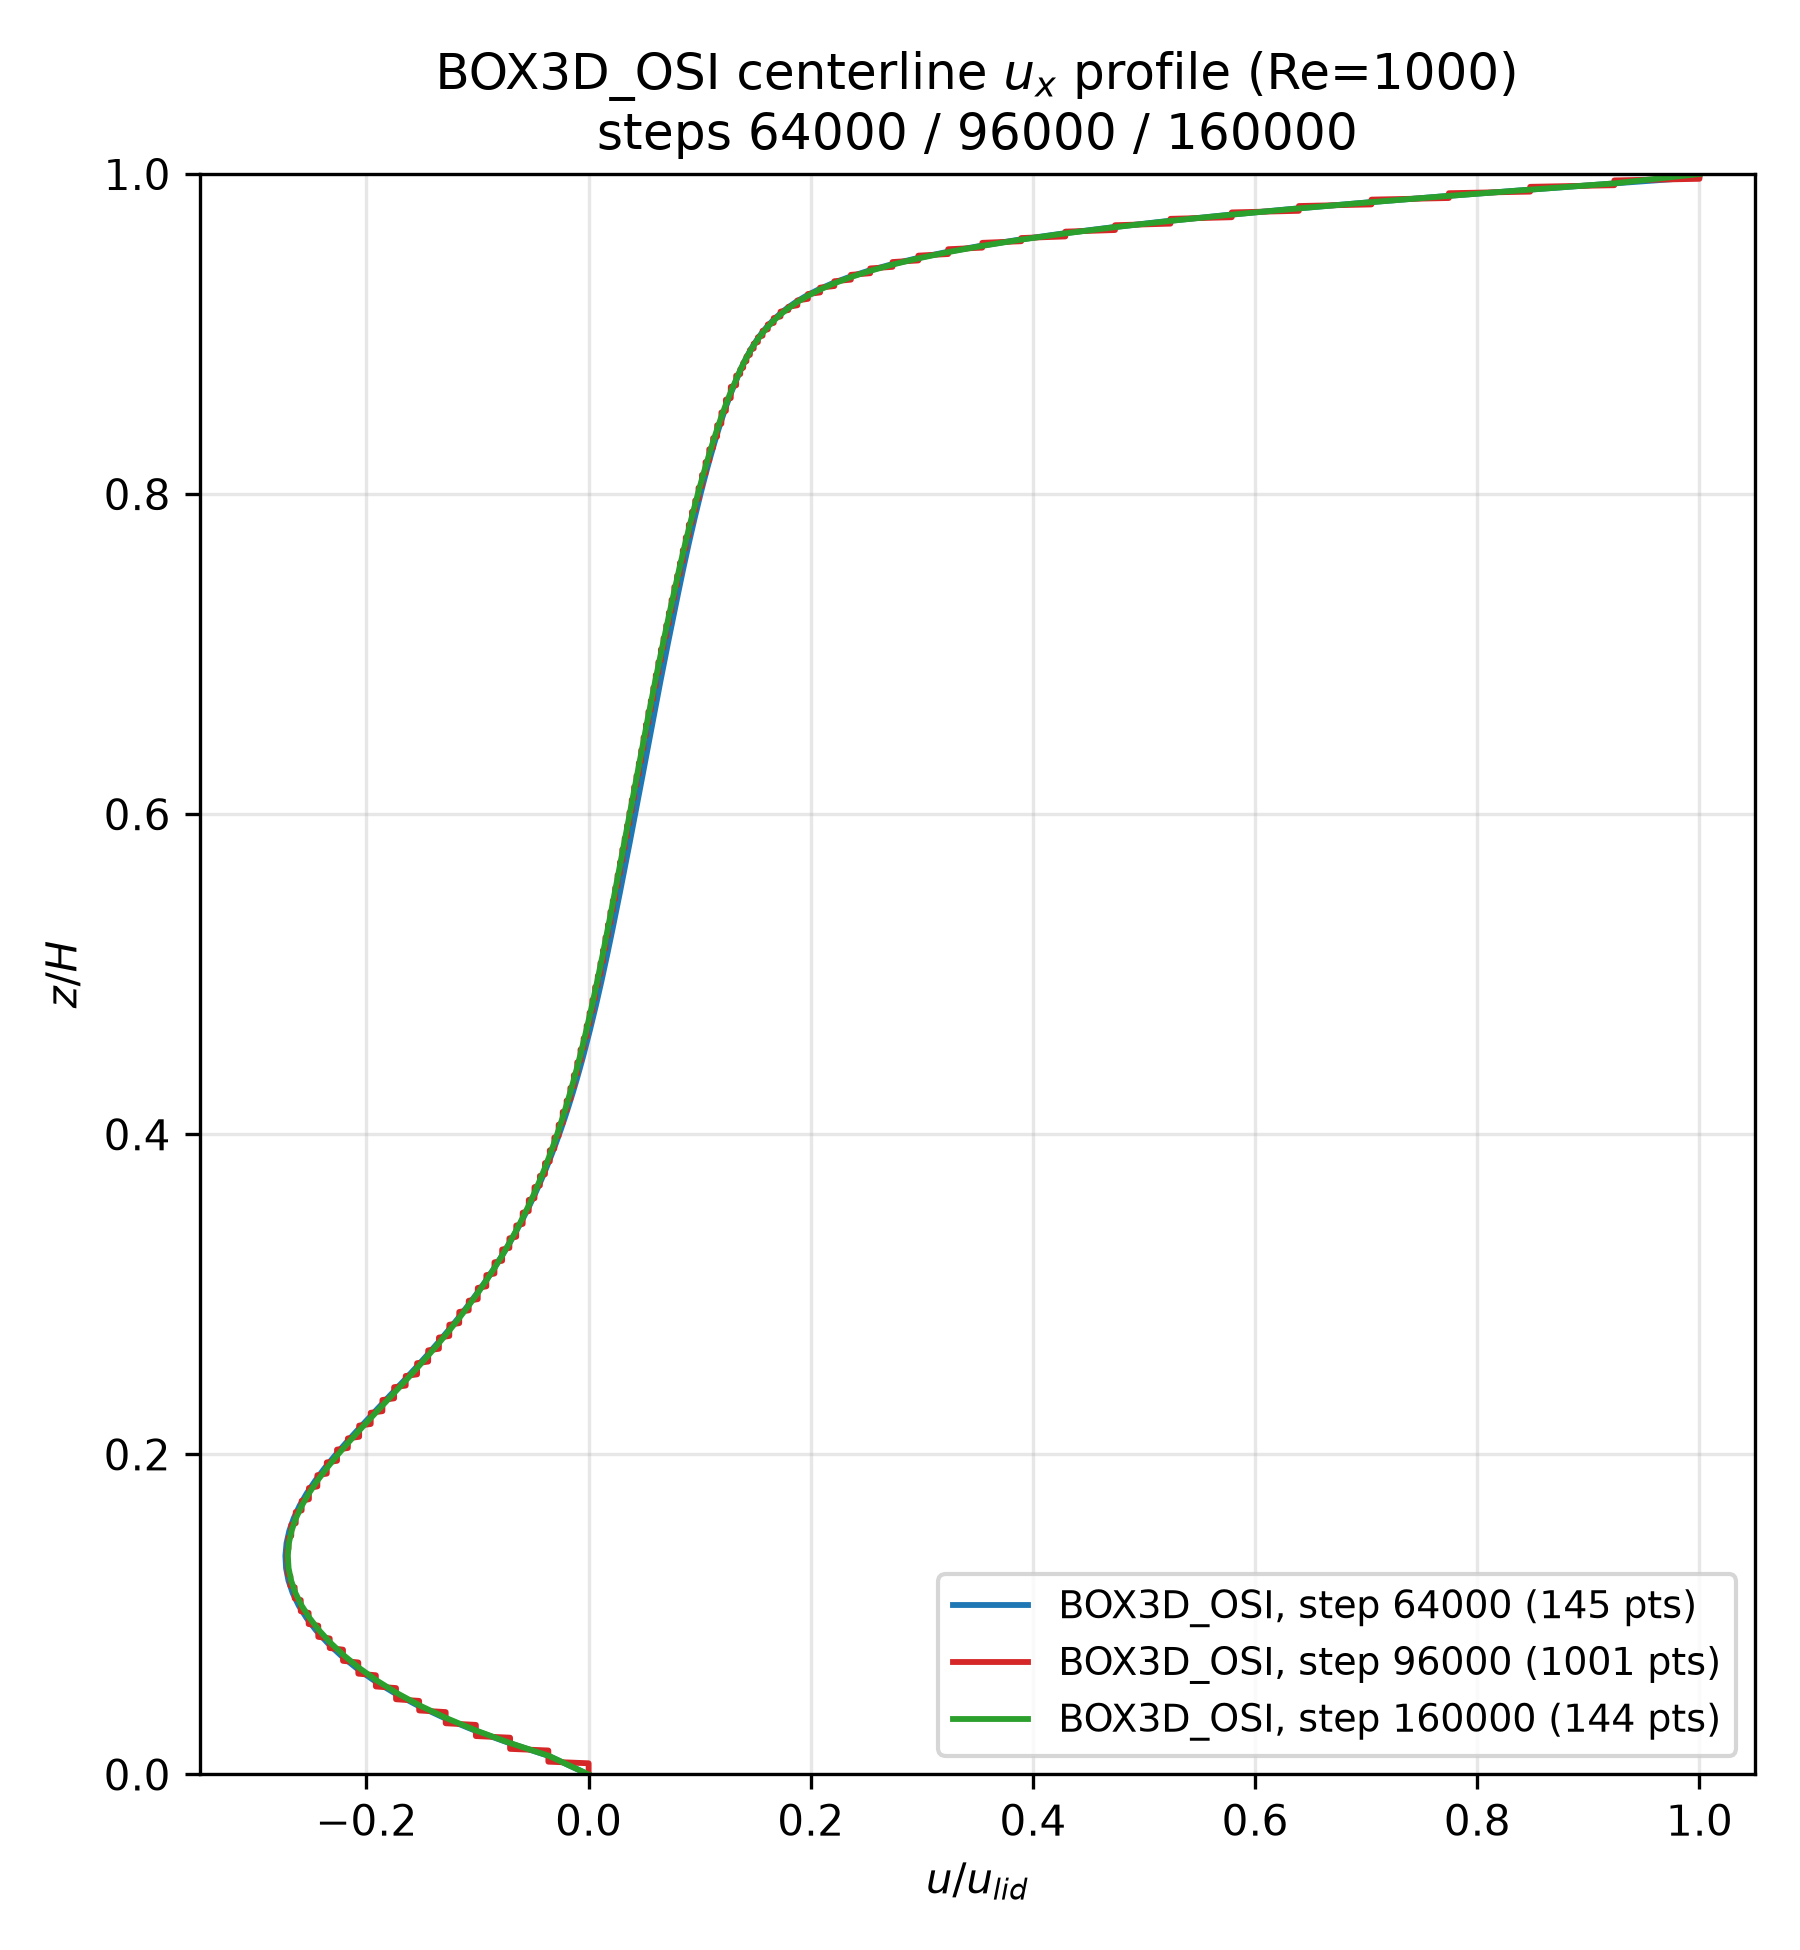
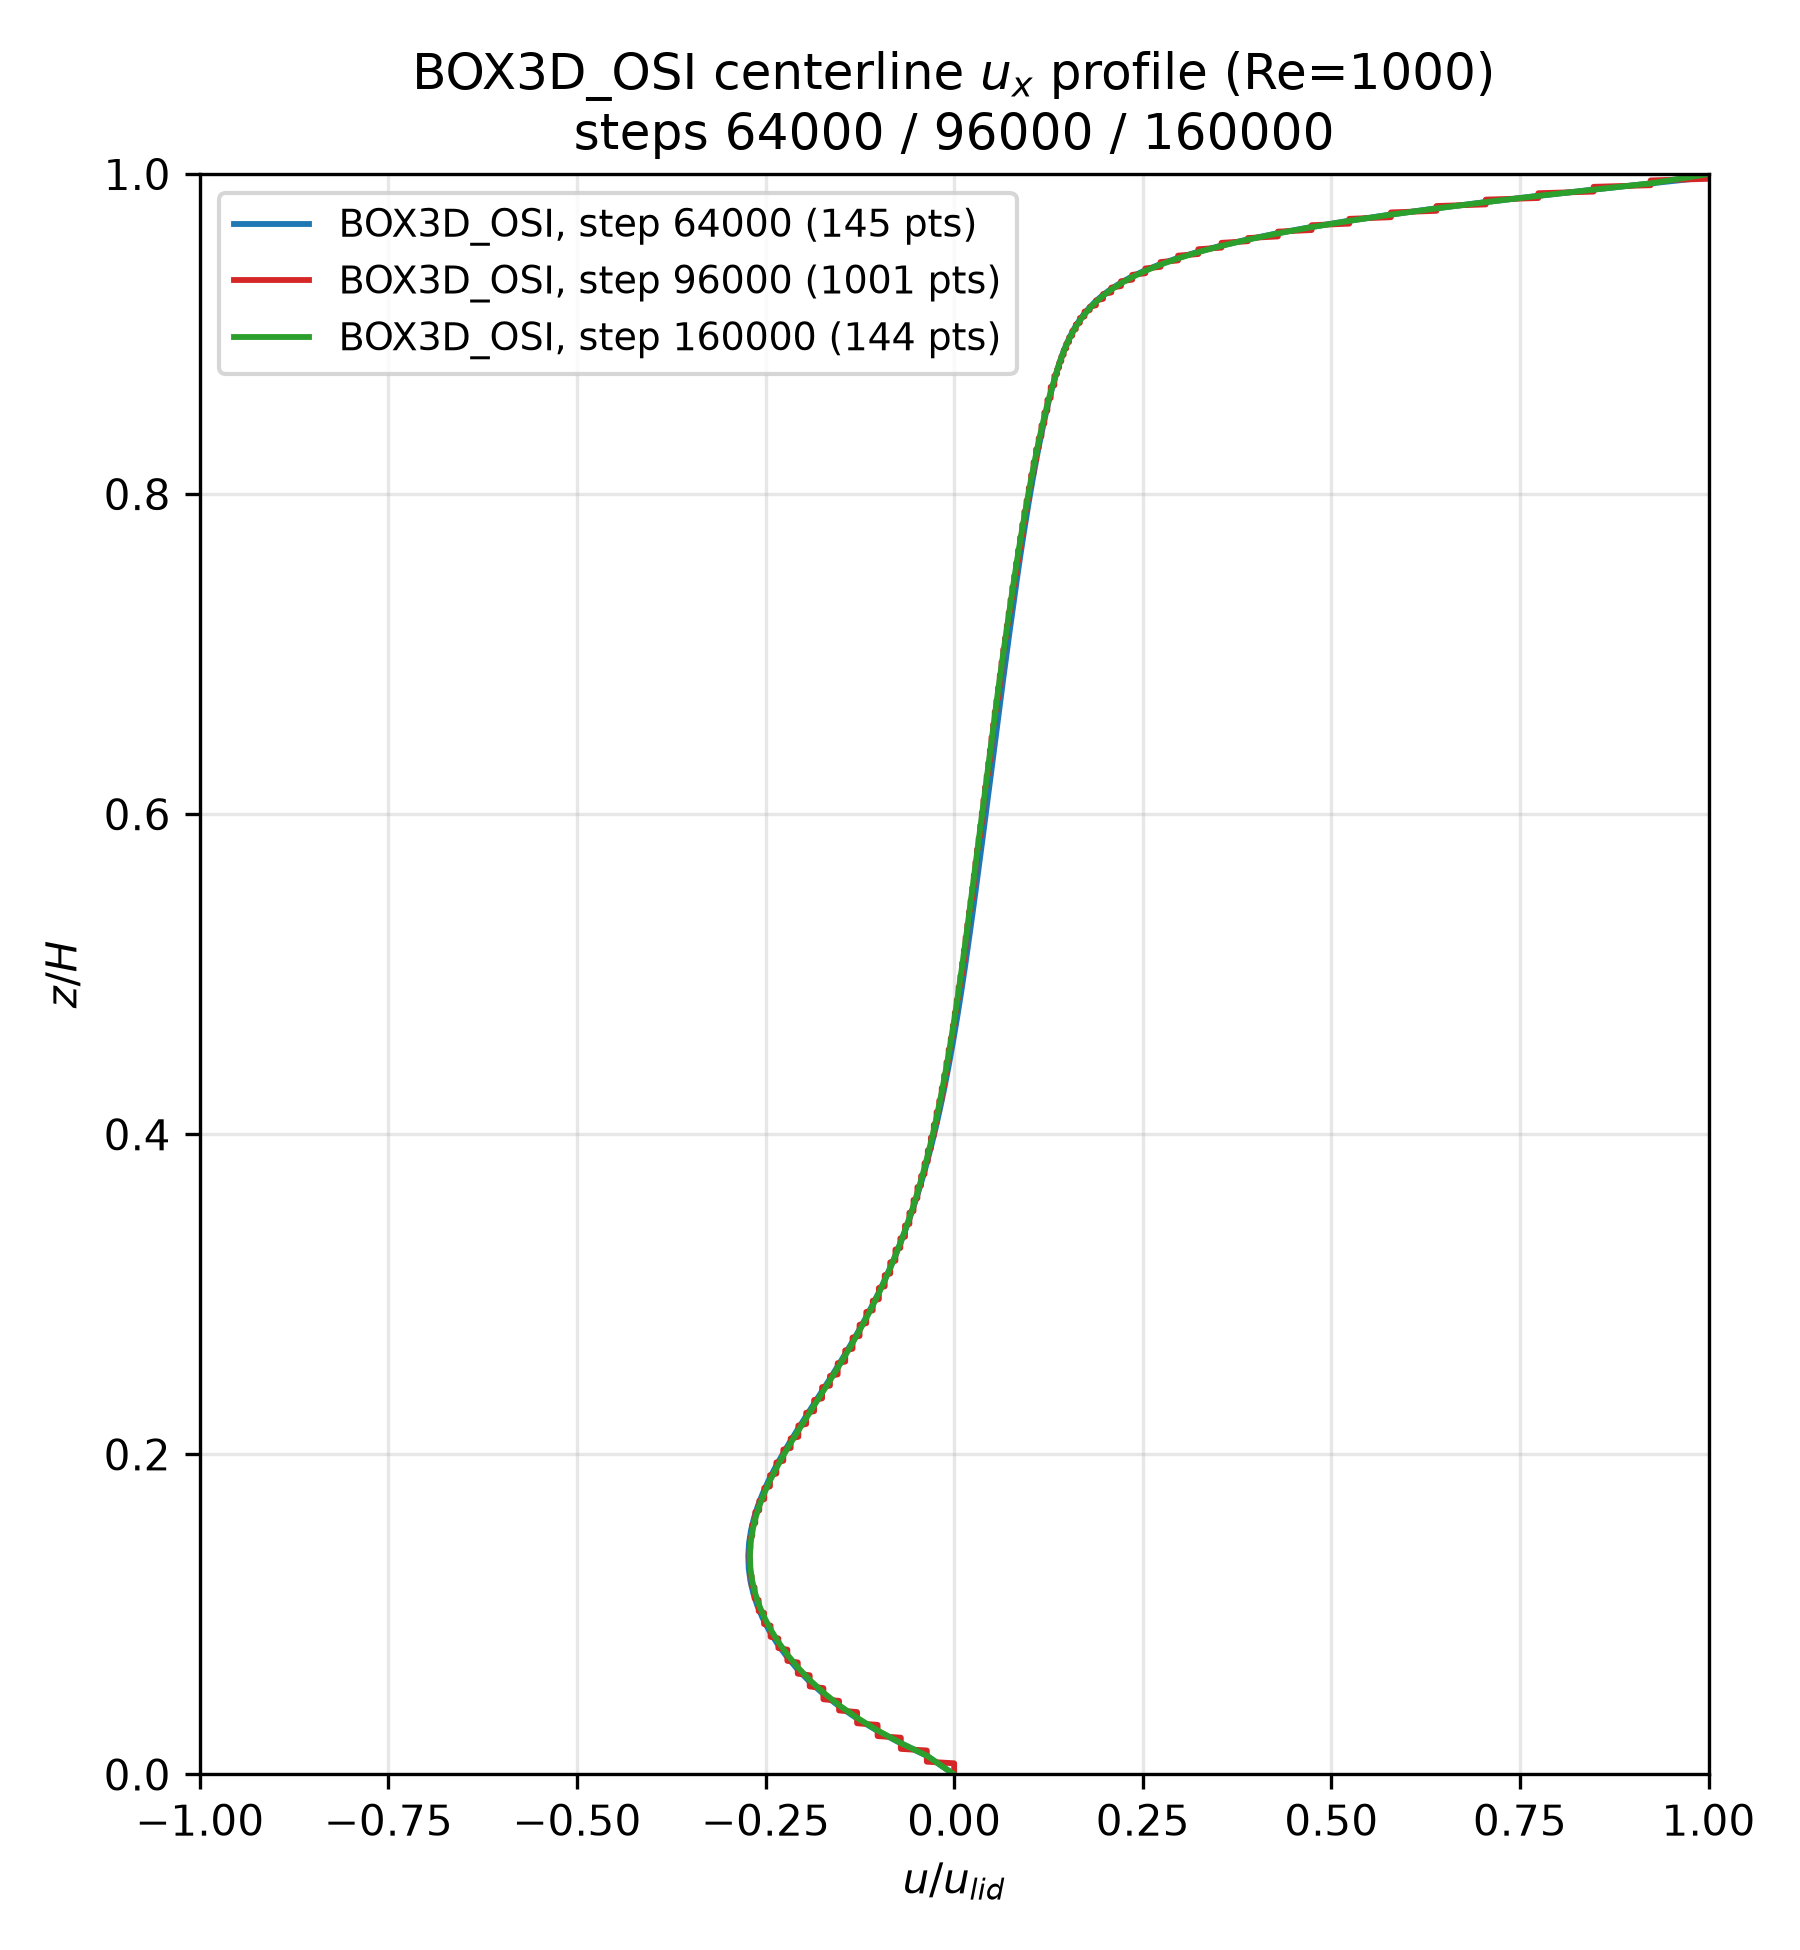
before codex

diff --git a/projects/3Dcases/Computing_performance_test/BOX3D_OSI/data_post_processing/plot_Re3200_3D_overlap_288000_fig18b.py b/projects/3Dcases/Computing_performance_test/BOX3D_OSI/data_post_processing/plot_Re3200_3D_overlap_288000_fig18b.py
@@ -122,23 +122,9 @@ for name, style in REFERENCE_STYLE.items():
         label=f"{style['label']} ({len(points)} pts)",
     )
 
-metric_lines = ["Interpolated errors in $u/u_{lid}$:"]
-for name in REFERENCE_STYLE:
-    values = metrics[name]
-    metric_lines.append(
-        f"{REFERENCE_STYLE[name]['label']}: "
-        f"MAE={values['mae']:.3f}, RMSE={values['rmse']:.3f}"
-    )
-ax.text(
-    0.03, 0.03, "\n".join(metric_lines), transform=ax.transAxes,
-    fontsize=8.2, va="bottom", ha="left",
-    bbox={"boxstyle": "round", "facecolor": "white", "alpha": 0.85,
-          "edgecolor": "#aaaaaa"},
-)
-
 ax.set_xlabel(r"$u/u_{lid}$")
 ax.set_ylabel(r"$z/H$")
-ax.set_xlim(-0.35, 1.05)
+ax.set_xlim(-1, 1)
 ax.set_ylim(0.0, 1.0)
 ax.set_title("BOX3D_OSI step 288000 vs Jaber Fig.18(b) (Re=3200)")
 ax.grid(True, alpha=0.3)

diff --git a/projects/3Dcases/Computing_performance_test/BOX3D_OSI/data_post_processing/plot_Re1000_3D_overlap.py b/projects/3Dcases/Computing_performance_test/BOX3D_OSI/data_post_processing/plot_Re1000_3D_overlap.py
@@ -53,7 +53,7 @@ for step, path, color in STEPS:
 
 ax.set_xlabel(r"$u/u_{lid}$")
 ax.set_ylabel(r"$z/H$")
-ax.set_xlim(-0.35, 1.05)
+ax.set_xlim(-1, 1)
 ax.set_ylim(0.0, 1.0)
 ax.set_title("BOX3D_OSI centerline $u_x$ profile (Re=1000)\n"
              "steps 64000 / 96000 / 160000")

diff --git a/projects/3Dcases/Computing_performance_test/BOX3D_OSI/data_post_processing/plot_overlap_160000_fig18a.py b/projects/3Dcases/Computing_performance_test/BOX3D_OSI/data_post_processing/plot_overlap_160000_fig18a.py
@@ -81,7 +81,7 @@ for series, style in REF_STYLE.items():
 
 ax.set_xlabel(r"$u/u_{lid}$")
 ax.set_ylabel(r"$z/H$")
-ax.set_xlim(-0.35, 1.05)
+ax.set_xlim(-1, 1)
 ax.set_ylim(0.0, 1.0)
 ax.set_title("BOX3D_OSI step 160000 vs Jaber Fig.18(a) (Re=1000)")
 ax.grid(True, alpha=0.3)
